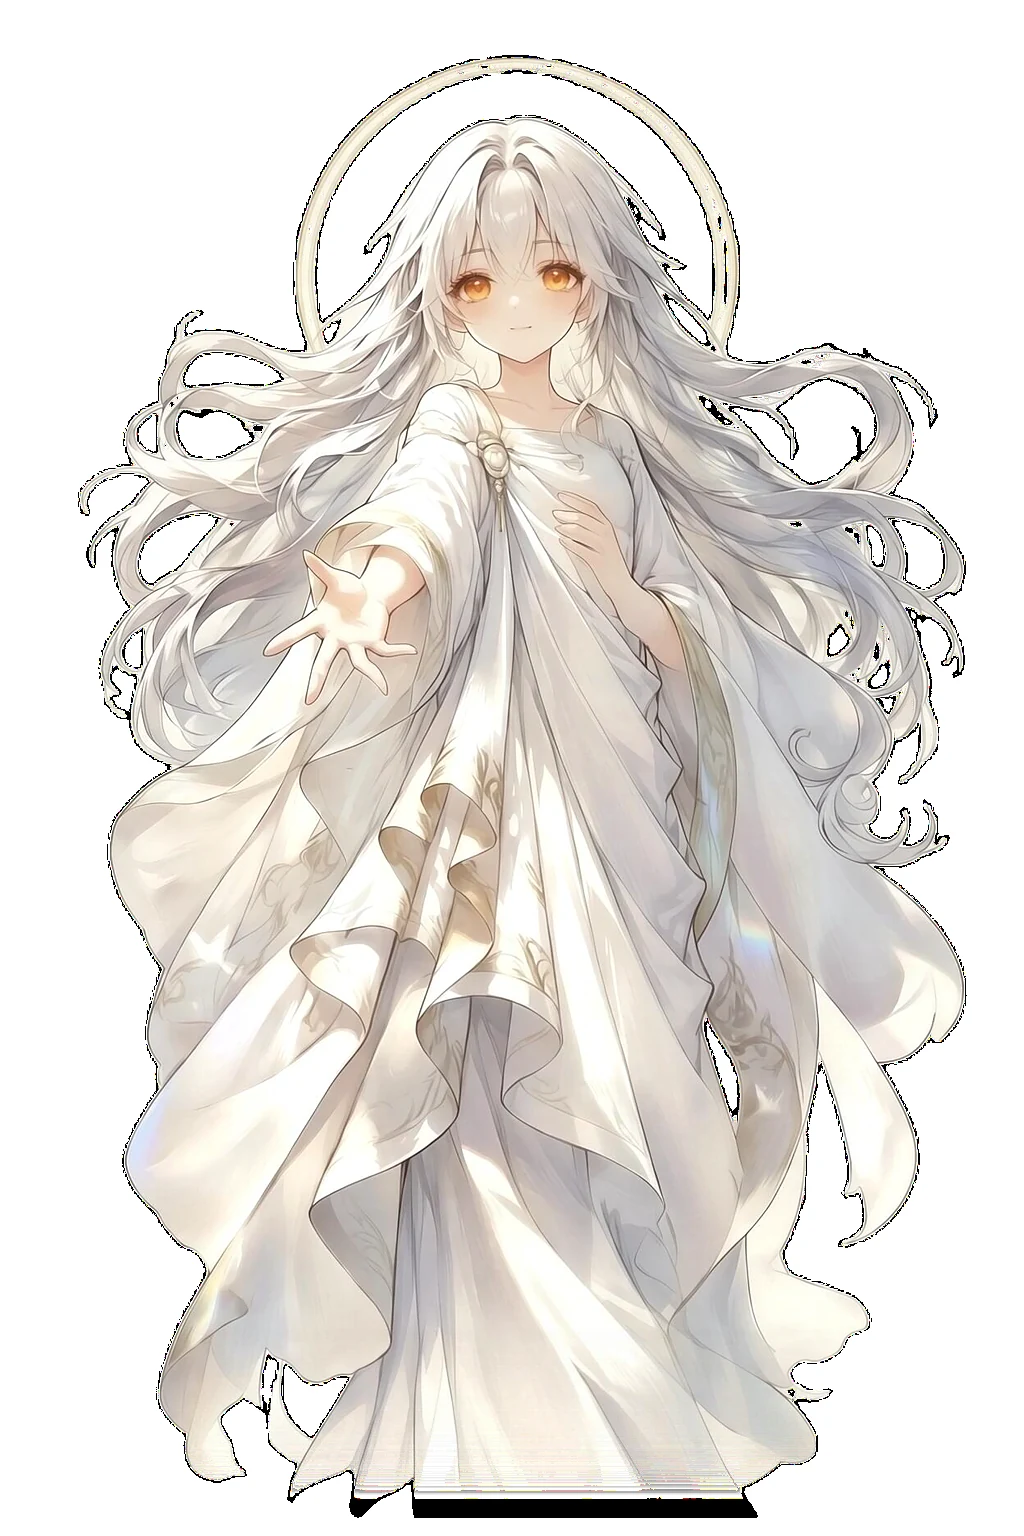
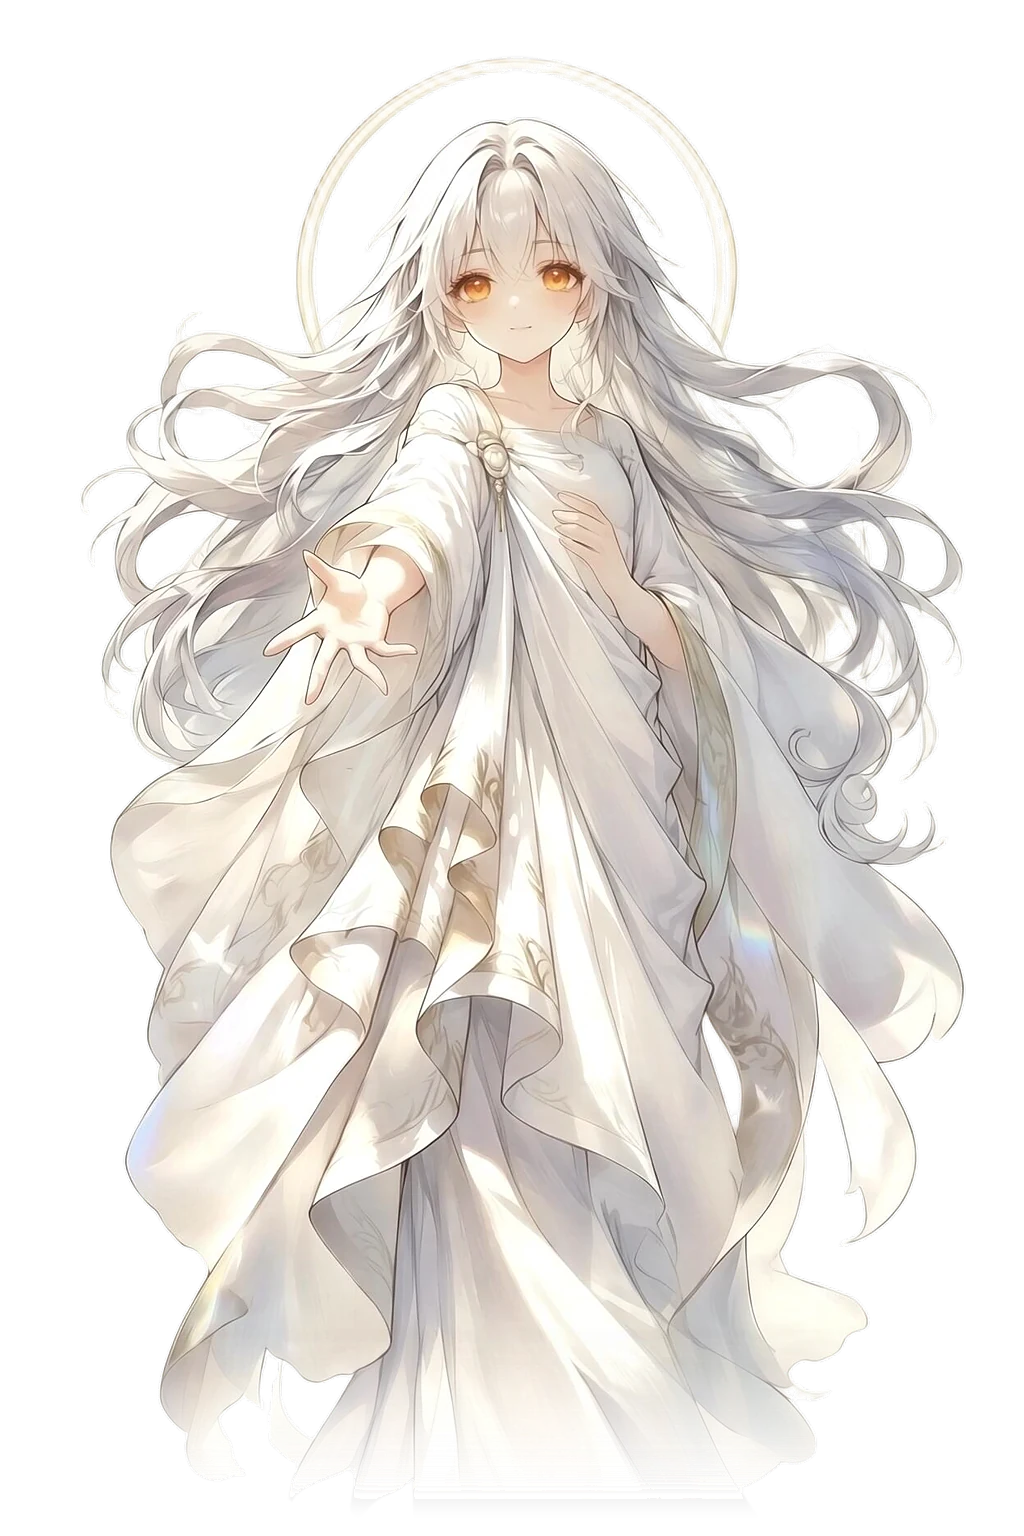
修 mana 透明底丢失 + 探针查 stories 栅格
- mana.webp / mana_ghost.webp 重做，保留 alpha
  （上一版我用 convert("RGB") 把透明拍平成了白底）
- 装探针读 .stories 的 computed grid-template-columns

diff --git a/index.html b/index.html
@@ -556,5 +556,18 @@
 <script src="js/app.js?v=15"></script>
 
 
+
+<div id="dbg" style="position:fixed;left:0;right:0;top:38%;z-index:2147483647;background:#000;color:#0f0;font:600 18px/1.7 monospace;padding:14px;text-align:center;white-space:pre-wrap">DBG…</div>
+<script>setTimeout(function(){
+  var e=document.querySelector('.stories');
+  var cs=e?getComputedStyle(e):null;
+  var n=e?e.children.length:0;
+  document.getElementById('dbg').textContent=
+    'innerW '+innerWidth+'   mq860 '+matchMedia('(max-width:860px)').matches+'\n'+
+    'stories 子元素 '+n+'\n'+
+    'gridTemplateColumns\n  '+ (cs?cs.gridTemplateColumns:'-') +'\n'+
+    'display '+(cs?cs.display:'-')+'\n'+
+    'style 内联 '+(e&&e.getAttribute('style')||'无');
+},2500);</script>
 </body>
 </html>
